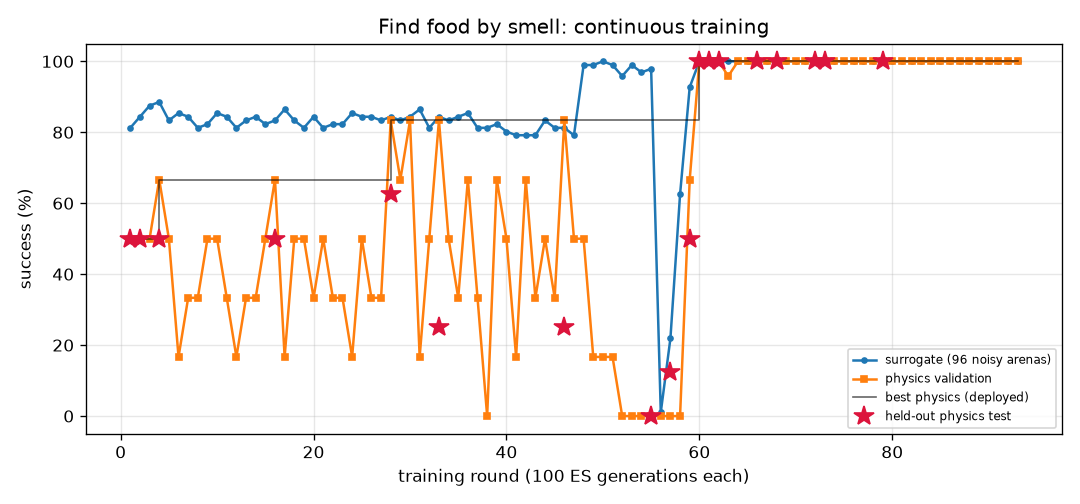
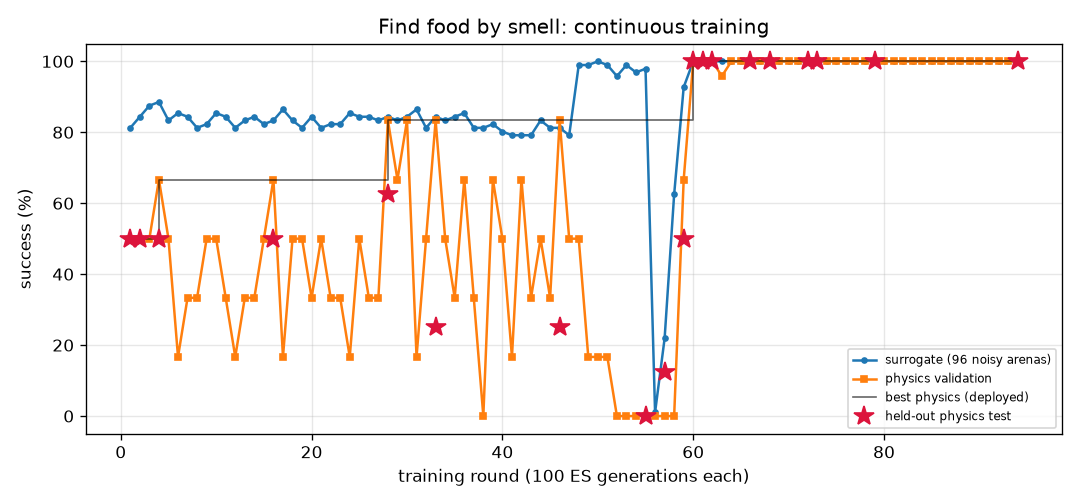
FlyLab: continuous training progress
- walk_forward: optimal, physics val 100% of 24, round 92
- turn: optimal, physics val 100% of 24, round 335
- goto: optimal, physics val 100% of 24, round 86
- odor_seek: optimal, physics val 100% of 24, round 94
- odor_avoid: optimal, physics val 100% of 24, round 420
- light_seek: optimal, physics val 100% of 24, round 275
- light_avoid: optimal, physics val 100% of 24, round 196

diff --git a/projects/09_flylab/training/turn/REPORT.md b/projects/09_flylab/training/turn/REPORT.md
@@ -1,14 +1,14 @@
 # Turn in place (`turn`) — training report
 
-*Auto-generated by `train_brains.py`, last updated 2026-10-11T21:39:36.*
+*Auto-generated by `train_brains.py`, last updated 2026-10-11T22:31:52.*
 
 ![curve](curve.png)
 
 | | |
 |---|---|
-| rounds | 329 |
-| ES generations | 32900 |
-| physics runs | 8142 |
+| rounds | 335 |
+| ES generations | 33500 |
+| physics runs | 8286 |
 | status | **optimal** |
 | best brain | round 80: physics validation **100%** on 24 arenas, surrogate 100% |
 | held-out physics test | **97%** on 32 unseen arenas (95% CI 84%-99%) (errors: [1.6, 3.3, 6.3, 3.7, 1.1, 0.4, 2.4, 2.9, 0.1, 2.6, 0.5, 2.7, 1.5, 3.1, 4.5, 0.2, 0.5, 1.1, 2.0, 4.4, 2.8, 3.2, 0.3, 2.2, 0.5, 3.0, 0.3, 5.4, 0.4, 1.0, 4.7, 10.7]) |
@@ -17,12 +17,6 @@ Physics error per arena: deg from target heading (< 20 = success).
 
 | round | level | gens | sigma | surrogate | physics val | val errors | test | note |
 |---:|---:|---:|---:|---:|---:|---|---:|---|
-| 290 | 3 | 29000 | 0.025 | 99% | 79% | [3.2, 1.5, 6.7, 2.1, 4.0, 2.4, 6.6, 6.9, 5.7, 1.5, 6.4, 1.4, 1.5, 0.9, 4.3, 3.1, 1.5, 3.1, 16.2, 1.4, 5.4, 4.4, 5.9, 9.3] |  |  |
-| 291 | 3 | 29100 | 0.025 | 99% | 96% | [6.2, 8.5, 0.5, 3.6, 2.3, 2.1, 3.3, 3.2, 3.2, 0.2, 1.6, 0.8, 3.4, 2.4, 2.0, 2.3, 0.9, 1.0, 2.4, 0.2, 5.6, 0.3, 3.6, 1.5] |  |  |
-| 292 | 3 | 29200 | 0.025 | 100% | 71% | [1.5, 2.3, 5.6, 2.0, 1.7, 1.1, 5.8, 9.7, 5.3, 0.7, 4.8, 2.2, 0.3, 0.1, 5.0, 1.0, 2.0, 3.4, 3.8, 1.1, 1.9, 0.1, 6.6, 7.9] |  | restart from best |
-| 293 | 3 | 29300 | 0.024 | 99% | 83% | [6.5, 9.6, 9.1, 3.3, 2.5, 5.2, 3.4, 1.2, 3.2, 2.2, 2.8, 1.9, 2.9, 3.1, 2.0, 2.2, 2.0, 1.2, 1.5, 3.0, 5.3, 0.9, 3.0, 5.2] |  |  |
-| 294 | 3 | 29400 | 0.025 | 98% | 62% | [5.7, 2.4, 6.8, 0.1, 6.0, 0.7, 6.4, 7.9, 5.1, 0.2, 5.7, 0.9, 0.3, 5.0, 5.1, 0.8, 0.0, 1.2, 0.8, 0.5, 6.6, 0.1, 6.8, 4.7] |  |  |
-| 295 | 3 | 29500 | 0.025 | 100% | 96% | [7.6, 10.0, 6.9, 5.4, 3.7, 3.3, 0.3, 4.8, 0.4, 2.8, 0.4, 4.2, 3.1, 4.2, 0.7, 1.5, 4.0, 3.9, 5.6, 5.8, 7.4, 3.0, 1.4, 2.5] |  |  |
 | 296 | 3 | 29600 | 0.024 | 98% | 92% | [7.6, 6.2, 1.4, 1.0, 1.1, 2.5, 4.0, 2.4, 4.5, 0.9, 3.7, 0.1, 3.2, 1.6, 4.2, 16.0, 0.1, 2.5, 1.7, 0.3, 4.9, 1.3, 6.0, 4.9] |  | restart from best |
 | 297 | 3 | 29700 | 0.024 | 100% | 75% | [3.7, 3.4, 3.8, 1.8, 1.8, 0.3, 5.7, 3.9, 6.7, 1.7, 4.8, 1.3, 1.0, 1.8, 4.4, 2.7, 1.6, 1.2, 3.0, 2.6, 3.8, 1.1, 6.3, 5.7] |  |  |
 | 298 | 3 | 29800 | 0.024 | 99% | 88% | [4.0, 3.9, 5.2, 1.1, 1.1, 0.3, 4.4, 4.6, 4.3, 1.2, 5.3, 0.5, 0.2, 0.9, 3.4, 0.3, 0.8, 1.3, 0.2, 0.3, 4.2, 1.6, 4.4, 1.2] |  |  |
@@ -57,3 +51,9 @@ Physics error per arena: deg from target heading (< 20 = success).
 | 327 | 3 | 32700 | 0.026 | 99% | 79% | [4.9, 5.7, 7.2, 2.0, 3.5, 2.5, 5.5, 1.4, 5.2, 1.2, 4.8, 0.7, 1.0, 3.6, 3.5, 1.9, 1.0, 1.3, 1.2, 1.9, 4.7, 1.0, 4.6, 6.7] |  |  |
 | 328 | 3 | 32800 | 0.025 | 98% | 75% | [8.0, 9.5, 1.7, 1.3, 2.4, 0.0, 2.7, 3.8, 2.2, 0.3, 2.8, 2.4, 0.7, 3.0, 2.4, 1.7, 2.5, 0.2, 1.8, 1.1, 8.4, 2.4, 3.9, 2.4] |  | restart from best |
 | 329 | 3 | 32900 | 0.024 | 100% | 83% | [0.1, 2.1, 5.1, 1.9, 14.1, 2.3, 4.3, 8.0, 6.7, 0.6, 5.5, 0.0, 2.7, 1.1, 4.9, 3.3, 0.2, 2.0, 0.2, 2.3, 6.1, 1.2, 5.9, 1.4] |  |  |
+| 330 | 3 | 33000 | 0.024 | 99% | 96% | [8.5, 9.7, 5.9, 5.2, 1.4, 4.3, 3.0, 1.5, 2.3, 3.3, 1.9, 1.8, 0.9, 2.0, 0.9, 2.4, 1.1, 2.6, 0.4, 3.7, 7.7, 1.5, 1.1, 4.1] |  |  |
+| 331 | 3 | 33100 | 0.025 | 97% | 88% | [10.4, 11.4, 3.3, 2.0, 4.1, 3.5, 0.5, 4.8, 1.1, 2.0, 0.9, 3.2, 3.4, 2.8, 0.5, 7.3, 4.1, 1.1, 3.9, 4.3, 7.8, 0.7, 2.6, 1.7] |  |  |
+| 332 | 3 | 33200 | 0.026 | 99% | 79% | [1.6, 6.7, 1.9, 1.9, 1.9, 2.7, 5.9, 5.2, 4.7, 0.3, 3.9, 0.8, 1.1, 0.2, 4.2, 1.7, 0.1, 0.8, 3.1, 3.5, 5.6, 0.8, 6.5, 3.2] |  | restart from best |
+| 333 | 3 | 33300 | 0.024 | 99% | 96% | [8.4, 8.6, 5.5, 6.0, 3.9, 1.1, 1.0, 2.5, 0.4, 2.6, 0.4, 3.4, 5.5, 6.5, 0.9, 2.0, 3.7, 4.4, 4.7, 2.4, 5.8, 1.7, 1.0, 6.9] |  |  |
+| 334 | 3 | 33400 | 0.025 | 99% | 75% | [8.1, 5.4, 8.5, 1.4, 1.2, 0.2, 7.9, 5.3, 9.6, 1.4, 5.6, 2.9, 3.0, 0.9, 4.7, 2.6, 2.6, 4.8, 2.8, 3.7, 2.1, 0.8, 9.3, 6.6] |  |  |
+| 335 | 3 | 33500 | 0.025 | 99% | 92% | [6.2, 8.0, 0.1, 3.0, 4.4, 1.3, 3.7, 4.9, 4.6, 0.4, 3.6, 1.6, 2.0, 3.7, 3.6, 0.9, 0.9, 0.9, 1.0, 1.1, 5.6, 0.1, 5.5, 0.2] |  |  |

diff --git a/projects/09_flylab/training/odor_avoid/REPORT.md b/projects/09_flylab/training/odor_avoid/REPORT.md
@@ -1,14 +1,14 @@
 # Escape a bad smell (`odor_avoid`) — training report
 
-*Auto-generated by `train_brains.py`, last updated 2026-10-11T19:14:07.*
+*Auto-generated by `train_brains.py`, last updated 2026-10-11T22:41:02.*
 
 ![curve](curve.png)
 
 | | |
 |---|---|
-| rounds | 417 |
-| ES generations | 41700 |
-| physics runs | 7314 |
+| rounds | 420 |
+| ES generations | 42000 |
+| physics runs | 7386 |
 | status | **optimal** |
 | best brain | round 373: physics validation **100%** on 24 arenas, surrogate 97% |
 | held-out physics test | **97%** on 32 unseen arenas (95% CI 84%-99%) (errors: [62.0, 57.4, 62.6, 61.9, 59.0, 61.6, 56.5, 60.7, 31.7, 60.9, 63.1, 57.1, 61.1, 62.1, 61.5, 60.2, 62.2, 55.2, 62.1, 54.2, 61.3, 62.0, 58.0, 61.9, 59.8, 56.5, 56.3, 56.4, 56.3, 57.7, 61.9, 32.4]) |
@@ -17,9 +17,6 @@ Physics error per arena: mm gained away from source (> 6 without first approachi
 
 | round | level | gens | sigma | surrogate | physics val | val errors | test | note |
 |---:|---:|---:|---:|---:|---:|---|---:|---|
-| 378 | 3 | 37800 | 0.026 | 96% | 96% | [63.0, 61.4, 56.3, 59.1, 61.8, 62.2, 61.3, 28.0, 60.8, 61.9, 61.4, 61.7, 54.9, 56.3, 49.7, 61.3, 62.2, 61.3, 55.6, 56.9, 62.4, 61.7, 59.3, 54.3] |  |  |
-| 379 | 3 | 37900 | 0.026 | 95% | 92% | [61.1, 57.2, 56.1, 60.0, 31.7, 37.9, 61.4, 2.7, 61.2, 6.1, 2.9, 60.9, 49.8, 55.4, 33.7, 31.8, 61.0, 24.2, 49.6, 58.9, 61.1, 18.4, 60.1, 58.1] |  |  |
-| 380 | 3 | 38000 | 0.027 | 96% | 92% | [60.4, 59.4, 55.0, 59.2, 59.1, 44.8, 59.4, 3.2, 59.1, 22.5, 58.7, 59.7, 51.1, 53.0, 18.4, 58.7, 59.8, 58.4, 53.9, 56.2, 60.1, 30.0, 59.5, 23.3] |  |  |
 | 381 | 3 | 38100 | 0.026 | 91% | 96% | [62.5, 60.7, 55.8, 61.1, 61.1, 62.0, 61.6, 62.6, 60.5, 62.3, 58.3, 61.1, 50.7, 51.2, 44.6, 60.7, 61.3, 61.4, 53.2, 60.7, 60.9, 62.8, 61.1, 63.1] |  | restart from best |
 | 382 | 3 | 38200 | 0.026 | 94% | 96% | [62.9, 61.7, 56.2, 61.6, 60.8, 62.0, 61.5, 32.1, 61.5, 54.9, 53.7, 61.7, 51.2, 55.4, 36.1, 61.8, 62.0, 62.3, 52.0, 58.0, 62.1, 51.2, 61.9, 61.7] |  |  |
 | 383 | 3 | 38300 | 0.028 | 92% | 100% | [62.9, 61.7, 55.5, 61.6, 60.8, 59.4, 61.7, 42.4, 60.9, 44.6, 43.2, 61.4, 36.7, 53.3, 6.5, 61.7, 61.5, 61.0, 50.0, 57.7, 61.8, 53.8, 59.6, 62.0] |  |  |
@@ -57,3 +54,6 @@ Physics error per arena: mm gained away from source (> 6 without first approachi
 | 415 | 3 | 41500 | 0.026 | 96% | 100% | [62.4, 59.3, 56.7, 61.1, 62.0, 60.8, 61.9, 15.7, 61.9, 30.3, 60.5, 61.9, 49.7, 56.4, 42.9, 61.5, 61.6, 49.6, 55.2, 57.1, 61.7, 51.3, 59.5, 34.7] |  |  |
 | 416 | 3 | 41600 | 0.026 | 95% | 96% | [61.7, 56.7, 56.6, 59.7, 62.2, 62.2, 61.9, 37.9, 62.0, 61.3, 60.7, 61.7, 53.0, 56.2, 35.8, 60.9, 62.0, 60.6, 55.3, 56.9, 62.0, 62.2, 60.7, 59.8] |  |  |
 | 417 | 3 | 41700 | 0.027 | 97% | 96% | [60.3, 56.8, 55.8, 57.2, 59.2, 59.3, 60.5, 49.7, 59.4, 41.2, 52.1, 60.5, 49.5, 55.4, 37.3, 59.6, 60.6, 59.8, 53.1, 56.5, 60.9, 52.4, 57.6, 59.6] |  | restart from best |
+| 418 | 3 | 41800 | 0.026 | 96% | 100% | [63.5, 57.2, 57.4, 61.1, 63.0, 61.8, 61.9, 58.9, 60.6, 60.8, 61.9, 61.9, 55.0, 58.4, 46.3, 62.4, 62.0, 62.0, 55.4, 56.5, 62.5, 62.3, 57.7, 60.4] |  |  |
+| 419 | 3 | 41900 | 0.026 | 96% | 96% | [62.8, 61.6, 56.2, 59.9, 62.1, 62.1, 61.5, 26.3, 61.2, 45.1, 62.0, 62.2, 54.4, 56.3, 36.6, 62.6, 62.5, 60.3, 55.3, 60.4, 62.4, 61.3, 61.7, 44.1] |  |  |
+| 420 | 3 | 42000 | 0.026 | 95% | 96% | [63.5, 61.7, 56.9, 61.9, 60.5, 59.9, 61.7, 23.2, 61.0, 43.5, 60.3, 61.3, 51.9, 55.3, 29.7, 60.5, 61.8, 60.0, 55.1, 60.9, 61.9, 38.6, 61.2, 62.8] |  |  |

diff --git a/projects/09_flylab/training/odor_seek/REPORT.md b/projects/09_flylab/training/odor_seek/REPORT.md
@@ -1,23 +1,22 @@
 # Find food by smell (`odor_seek`) — training report
 
-*Auto-generated by `train_brains.py`, last updated 2026-10-11T21:15:26.*
+*Auto-generated by `train_brains.py`, last updated 2026-10-11T21:59:13.*
 
 ![curve](curve.png)
 
 | | |
 |---|---|
-| rounds | 93 |
-| ES generations | 9300 |
-| physics runs | 1534 |
+| rounds | 94 |
+| ES generations | 9400 |
+| physics runs | 1590 |
 | status | **optimal** |
-| best brain | round 79: physics validation **100%** on 24 arenas, surrogate 100% |
-| held-out physics test | **100%** on 32 unseen arenas (95% CI 89%-100%) (errors: [0.2, 0.2, 0.16, 0.12, 0.18, 0.07, 0.15, 0.17, 0.15, 0.14, 0.21, 0.15, 0.27, 0.08, 0.15, 0.23, 0.14, 0.15, 0.16, 0.14, 0.22, 0.15, 0.13, 0.11, 0.13, 0.18, 0.21, 0.13, 0.11, 0.13, 0.21, 0.15]) |
+| best brain | round 94: physics validation **100%** on 24 arenas, surrogate 100% |
+| held-out physics test | **100%** on 32 unseen arenas (95% CI 89%-100%) (errors: [0.14, 0.22, 0.15, 0.19, 0.15, 0.19, 0.13, 0.24, 0.15, 0.24, 0.25, 0.25, 0.15, 0.2, 0.2, 0.18, 0.19, 0.17, 0.15, 0.14, 0.17, 0.13, 0.19, 0.23, 0.18, 0.13, 0.23, 0.2, 0.15, 0.15, 0.2, 0.16]) |
 
 Physics error per arena: mm from target at the end (< 1.5 and standing still = success).
 
 | round | level | gens | sigma | surrogate | physics val | val errors | test | note |
 |---:|---:|---:|---:|---:|---:|---|---:|---|
-| 54 | 1 | 5400 | 0.025 | 97% | 0% | [3.59, 2.19, 3.65, 4.14, 3.62, 2.43] |  |  |
 | 55 | 1 | 5500 | 0.026 | 98% | 0% | [2.82, 0.29, 1.41, 3.77, 3.34, 1.7] | 0% | new best |
 | 56 | 1 | 5600 | 0.078 | 1% | 0% | [2.57, 2.72, 3.56, 1.7, 1.5, 0.85] |  |  |
 | 57 | 1 | 5700 | 0.079 | 22% | 0% | [1.95, 1.02, 1.04, 2.27, 1.03, 1.84] | 12% | new best |
@@ -57,3 +56,4 @@ Physics error per arena: mm from target at the end (< 1.5 and standing still = s
 | 91 | 3 | 9100 | 0.024 | 100% | 100% | [0.29, 0.24, 0.3, 0.15, 0.24, 0.21, 0.17, 0.25, 0.27, 0.26, 0.24, 0.21, 0.21, 0.26, 0.22, 0.24, 0.21, 0.23, 0.26, 0.32, 0.2, 0.24, 0.31, 0.22] |  | restart from best |
 | 92 | 3 | 9200 | 0.024 | 100% | 100% | [0.25, 0.18, 0.19, 0.2, 0.27, 0.17, 0.15, 0.19, 0.15, 0.17, 0.24, 0.21, 0.24, 0.2, 0.17, 0.19, 0.16, 0.17, 0.17, 0.19, 0.21, 0.17, 0.19, 0.23] |  |  |
 | 93 | 3 | 9300 | 0.024 | 100% | 100% | [0.19, 0.24, 0.21, 0.15, 0.29, 0.14, 0.21, 0.23, 0.16, 0.29, 0.17, 0.22, 0.23, 0.16, 0.16, 0.19, 0.17, 0.18, 0.2, 0.18, 0.17, 0.19, 0.24, 0.17] |  |  |
+| 94 | 3 | 9400 | 0.024 | 100% | 100% | [0.2, 0.22, 0.16, 0.15, 0.21, 0.2, 0.19, 0.21, 0.26, 0.22, 0.21, 0.2, 0.18, 0.14, 0.18, 0.2, 0.19, 0.2, 0.17, 0.22, 0.15, 0.23, 0.24, 0.14] | 100% | new best |

diff --git a/projects/09_flylab/training/TRAINING.md b/projects/09_flylab/training/TRAINING.md
@@ -1,15 +1,15 @@
 # FlyLab brains — continuous training log
 
-*Auto-generated by `train_brains.py`, last updated 2026-10-11T21:39:36.*
+*Auto-generated by `train_brains.py`, last updated 2026-10-11T22:41:02.*
 
 Every skill has its own brain and its own training process: surrogate ES rounds, physics validation in MuJoCo, keep-the-best selection, and a held-out physics test that is never used for selection. See each skill's report for its full round-by-round history. Mastery is progressive: passing a level (100% physics validation, >=95% surrogate) doubles the validation and test arena sets; a brain is **optimal** once it holds up at level 3 (>=95% of 24 validation arenas) AND scores >=90% on the 32 held-out test arenas. Test columns show 95% Wilson confidence intervals.
 
 | skill | rounds | ES generations | physics runs | surrogate | physics val | **physics test** | status |
 |---|---:|---:|---:|---:|---:|---:|---|
 | [Walk forward](walk_forward/REPORT.md) | 92 | 9200 | 2158 | 100% | 100% of 24 | 100% of 32 (CI 89-100%) | **optimal** |
-| [Turn in place](turn/REPORT.md) | 329 | 32900 | 8142 | 100% | 100% of 24 | 97% of 32 (CI 84-99%) | **optimal** |
+| [Turn in place](turn/REPORT.md) | 335 | 33500 | 8286 | 100% | 100% of 24 | 97% of 32 (CI 84-99%) | **optimal** |
 | [Go to a location](goto/REPORT.md) | 86 | 8600 | 1950 | 100% | 100% of 24 | 100% of 32 (CI 89-100%) | **optimal** |
-| [Find food by smell](odor_seek/REPORT.md) | 93 | 9300 | 1534 | 100% | 100% of 24 | 100% of 32 (CI 89-100%) | **optimal** |
-| [Escape a bad smell](odor_avoid/REPORT.md) | 417 | 41700 | 7314 | 97% | 100% of 24 | 97% of 32 (CI 84-99%) | **optimal** |
+| [Find food by smell](odor_seek/REPORT.md) | 94 | 9400 | 1590 | 100% | 100% of 24 | 100% of 32 (CI 89-100%) | **optimal** |
+| [Escape a bad smell](odor_avoid/REPORT.md) | 420 | 42000 | 7386 | 97% | 100% of 24 | 97% of 32 (CI 84-99%) | **optimal** |
 | [Walk toward light](light_seek/REPORT.md) | 275 | 27500 | 3352 | 100% | 100% of 24 | 100% of 32 (CI 89-100%) | **optimal** |
 | [Hide from light](light_avoid/REPORT.md) | 196 | 19600 | 4976 | 100% | 100% of 24 | 100% of 32 (CI 89-100%) | **optimal** |
